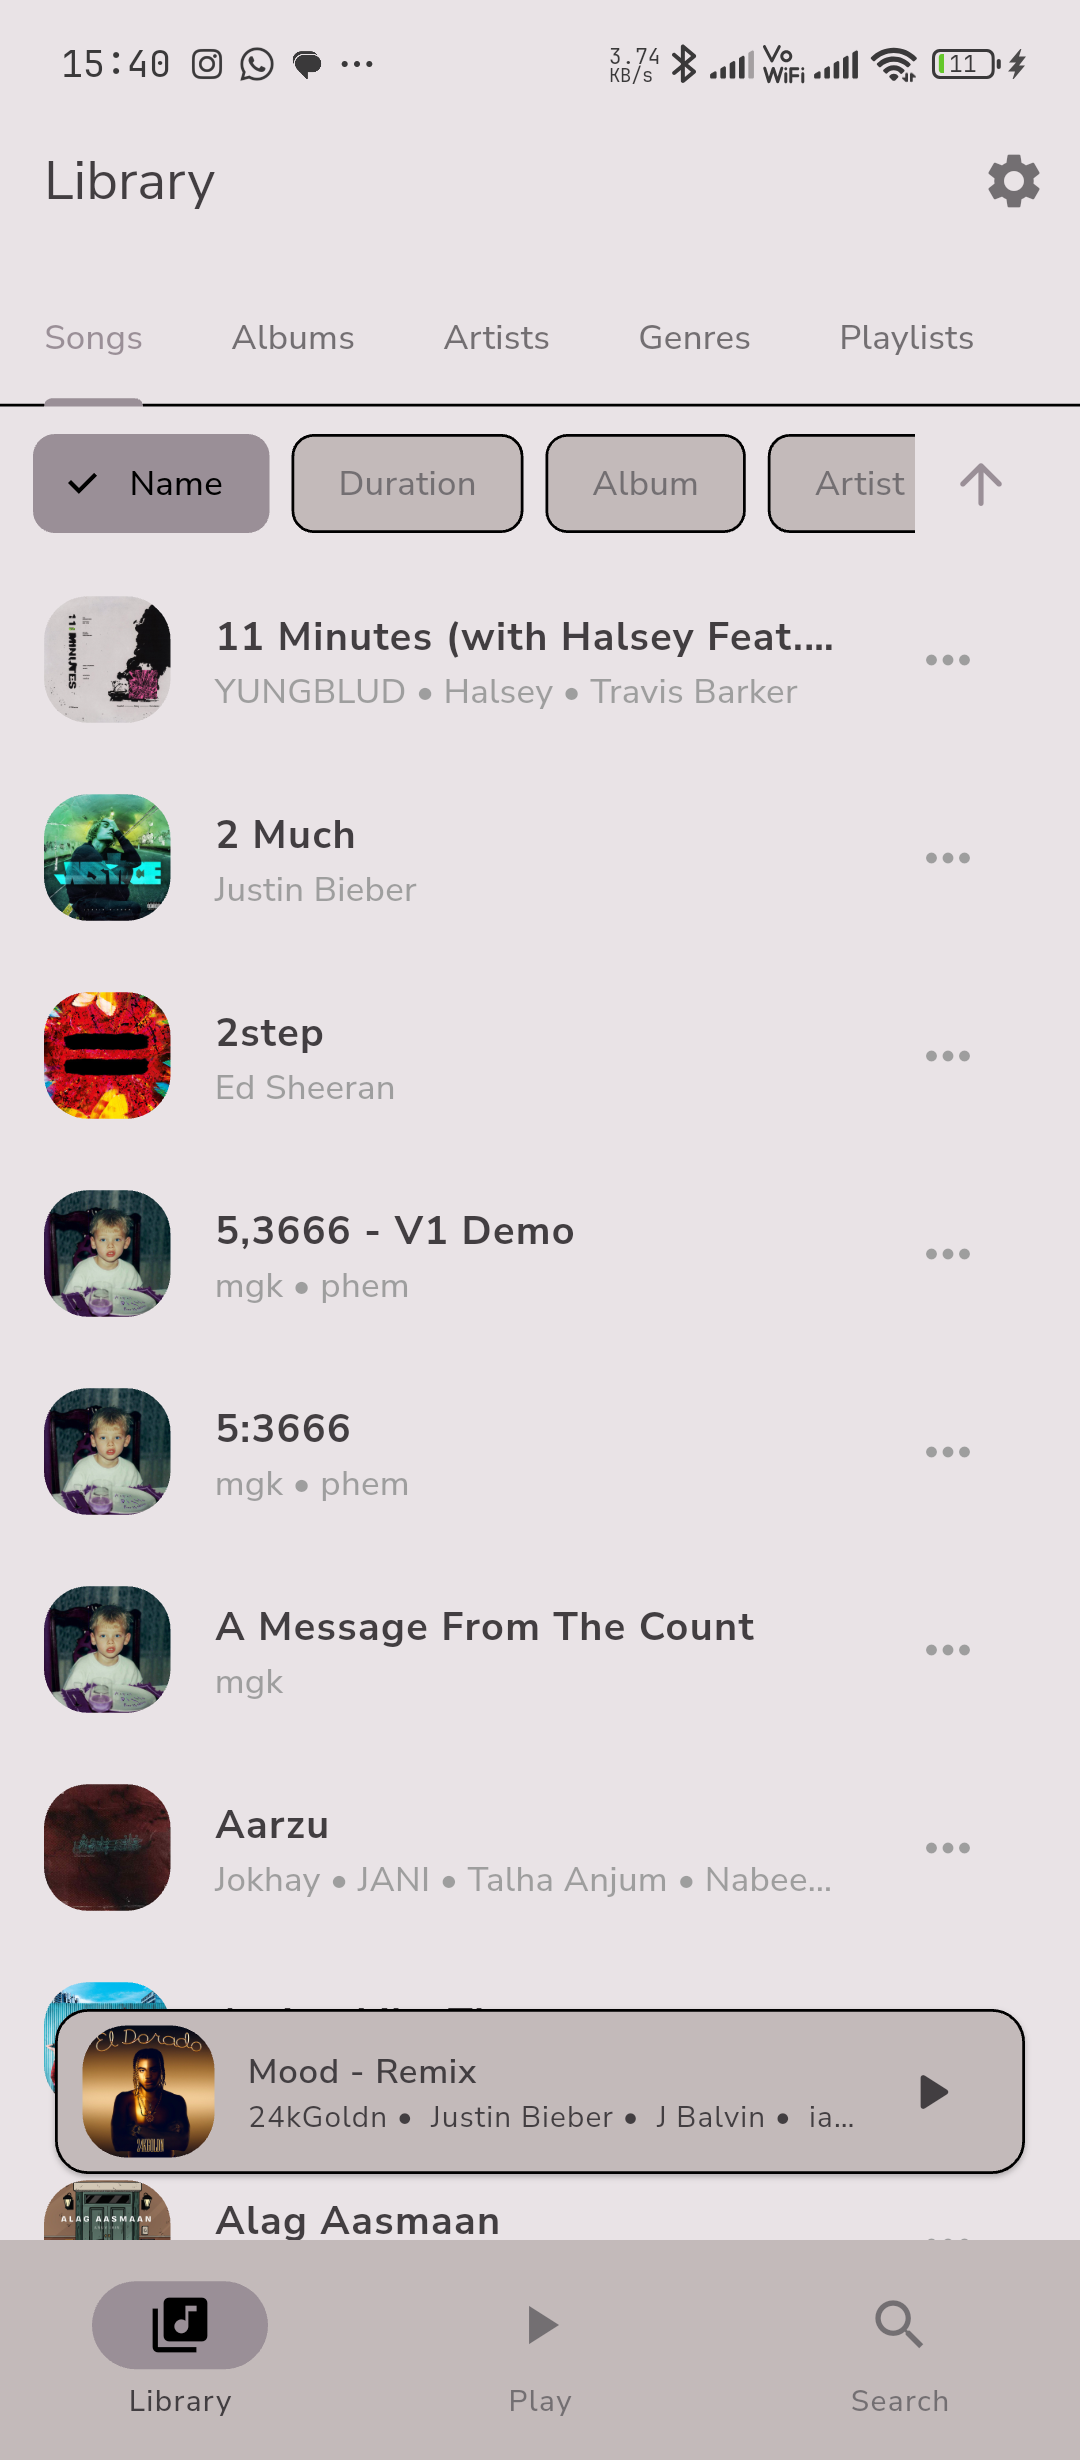
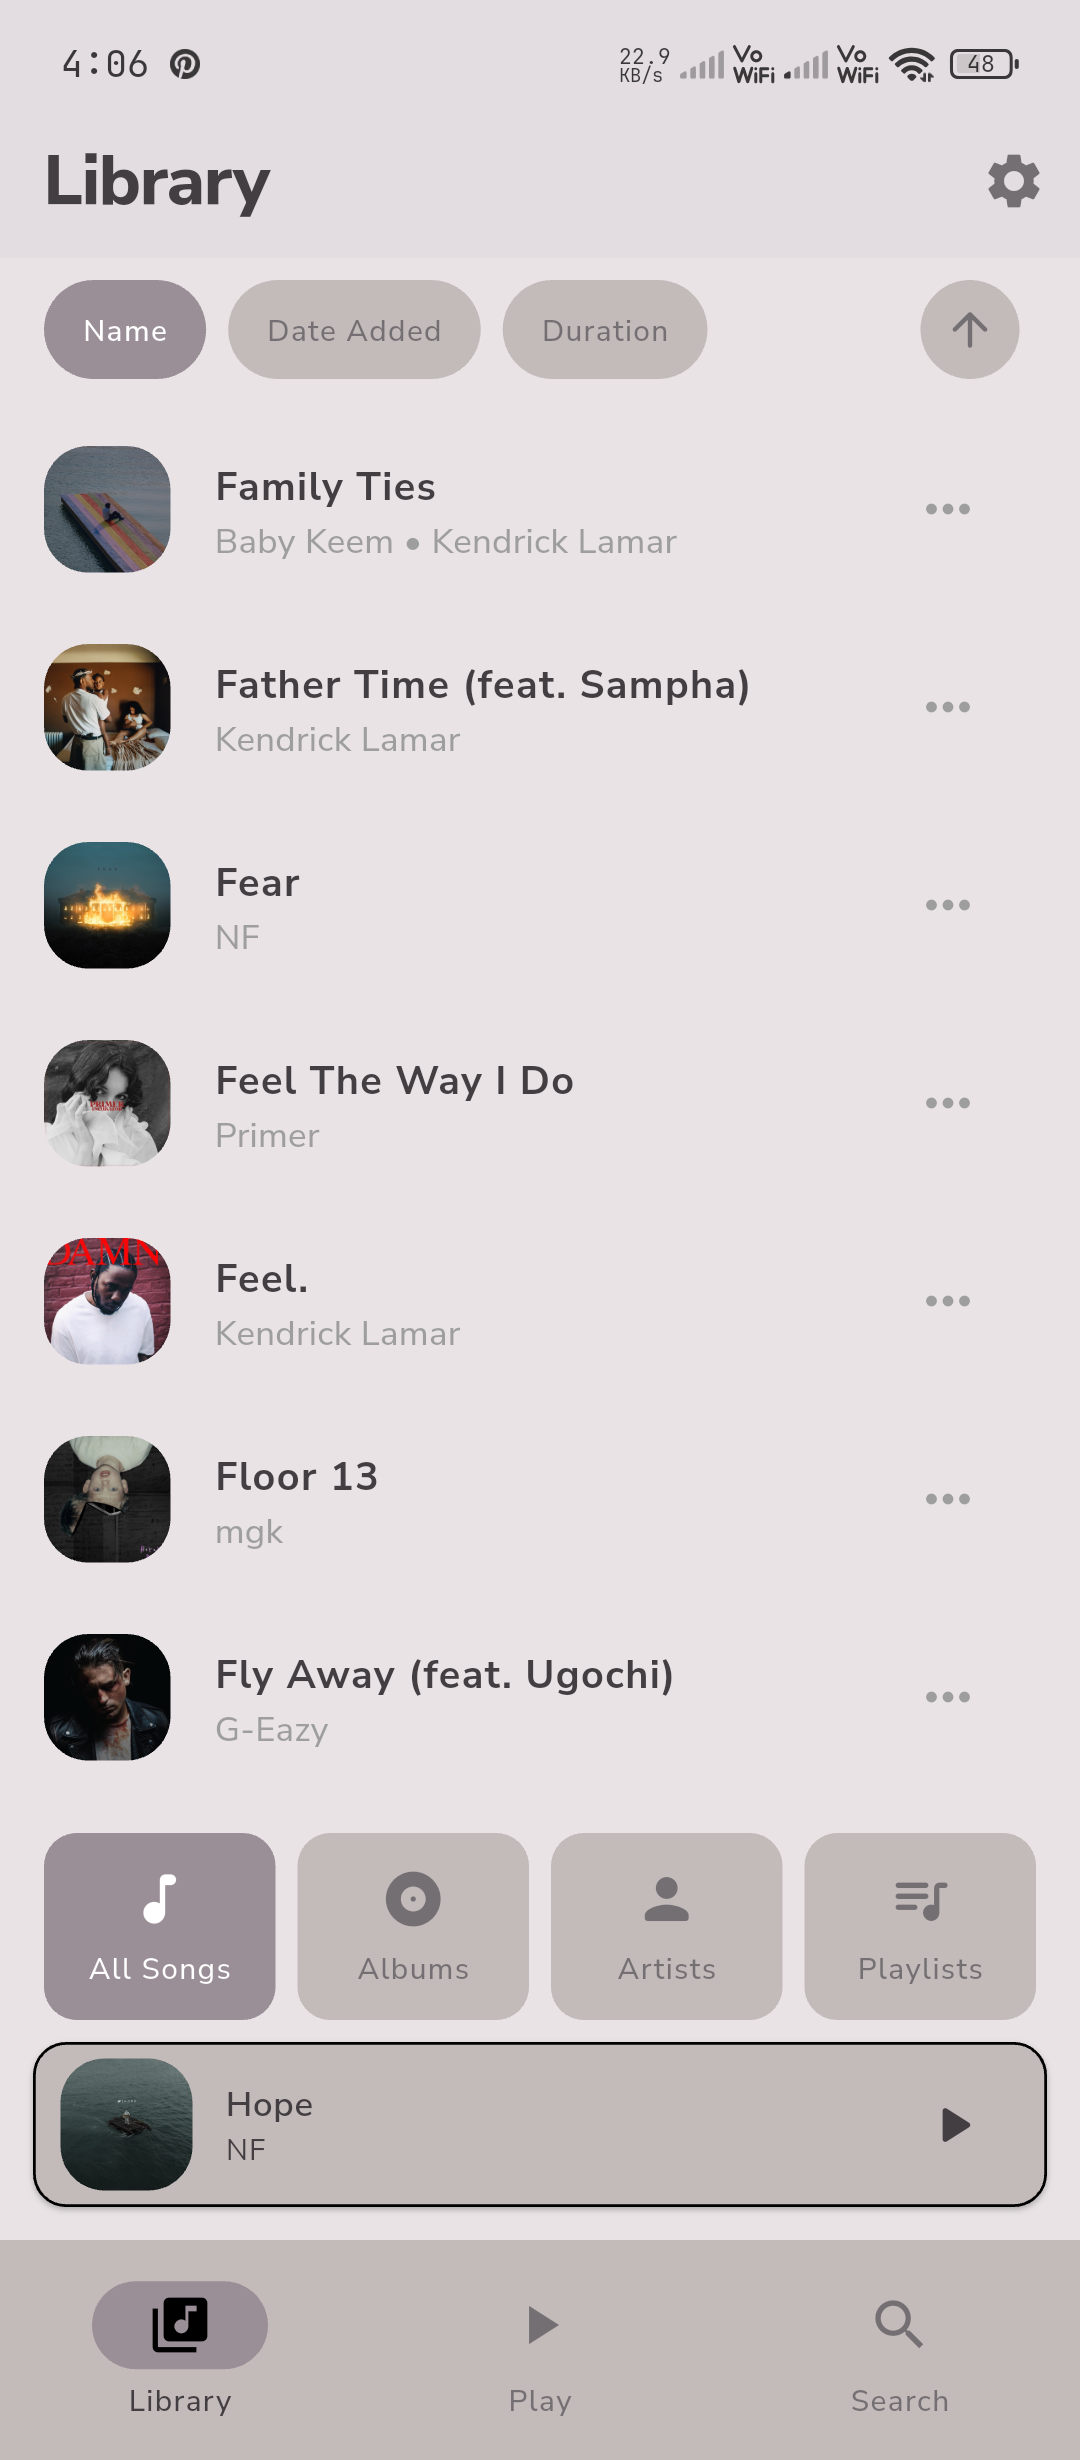
updated REDME.md

diff --git a/README.md b/README.md
@@ -4,17 +4,26 @@
 
 **Your music. Offline. Always.**
 
-An offline music player for Android built with Flutter.
-Tunely scans your device library and lets you browse, play, and vibe — no internet required.
+A beautiful, free music player for Android that plays the songs already on
+your device — no internet, no accounts, no subscriptions. Open it and your
+whole library is right there.
 
-[![Flutter](https://img.shields.io/badge/Flutter-3.x-02569B?style=for-the-badge&logo=flutter&logoColor=white)](https://flutter.dev)
-[![Dart](https://img.shields.io/badge/Dart-3.x-0175C2?style-for-the-badge&logo=dart&logoColor=white)](https://dart.dev)
-[![Android](https://img.shields.io/badge/Android-API%2021+-3DDC84?style=for-the-badge&logo=android&logoColor=white)](https://developer.android.com)
+[![Android](https://img.shields.io/badge/Platform-Android-3DDC84?style=for-the-badge&logo=android&logoColor=white)](https://developer.android.com)
 [![License](https://img.shields.io/badge/License-MIT-purple?style=for-the-badge)](LICENSE)
+[![Release](https://img.shields.io/badge/Release-Closed%20Beta-orange?style=for-the-badge)]()
 
-> 🚀 **v1.0.0** — currently in closed beta. Play Store release coming soon.
+> 🚀 **Currently in closed beta.** Public release on the Play Store coming soon.
 
 </div>
+
+---
+
+## ✨ Why Tunely
+
+- **Plays your own music** — reads what's already on your phone. No streaming, no sign-ups.
+- **Fully offline** — every feature works without a connection.
+- **Personal by design** — light and dark themes, and album art that drives the whole look.
+- **Lyrics that follow along** — Get lyrics easily; synced lyrics scroll in time with the song, automatically.
 
 ---
 
@@ -34,202 +43,87 @@ Tunely scans your device library and lets you browse, play, and vibe — no inte
 
 ---
 
-## ✨ Features
+## 🎶 Features
 
-### 🏠 Home
-- Greeting message with time-aware random texts
-- **Continue listening** — resume your last played track
-- **Top songs** — card-based page viewer of most played tracks
-- **Daily mix** — 15 shuffled songs, first 5 shown as a vertical list
-- **Recommended albums** — horizontal carousel
+### Pick up where you left off
 
-### 📚 Library
-- Browse by **Songs**, **Albums**, **Artists**, **Genres**, and **Playlists**
-- Filter chips (All / Music / Podcasts) on songs tab
-- Sortable song lists (title, artist, album, duration, date added)
-- Albums shown in a 2-column grid
-- Artists with Deezer-fetched profile images
-- Songs grouped by album on artist detail pages (sticky headers)
+- **Continue listening** — jump straight back into your last played track.
+- **Top songs & daily mix** — revisit your most played tracks or shuffle a fresh mix.
+- **Recommended albums** — a carousel to browse and rediscover your library.
 
-### 🔍 Search
-- Real-time search with debounce across your entire library
-- Filter chips — All / Songs / Albums / Artists
-- Recently searched items persisted across sessions
+### 📚 Your library, organized
 
-### 🎵 Player
-- Full playback controls — play, pause, next, prev, seek
-- **Shuffle and repeat** modes (none, repeat all, repeat one)
-- Animated album art with scale transition on play/pause
-- Gradient background extracted from album art
-- **Queue management** with drag-to-reorder and swipe-to-remove
-- Sleep timer with countdown (5m / 15m / 30m / 1h / 2h)
+- Browse by Songs, Albums, Artists, and more.
+- Sort by title, artist, album, duration, or date added.
+- Tap an artist to see their catalog grouped by album, with fetched artist photos and album covers.
 
-### 📖 Lyrics
-- **Synced and unsynced** lyrics via [lrclib](https://lrclib.net) API
-- Lyrics scroll **in sync** with song playback
-- Manual lyrics search if auto-fetch doesn't match
-- Import `.lrc` files from device storage
-- Edit synced line timing or plain lyrics directly
-- Lyrics cached locally with Hive for offline reuse
-- Per-song in-session memory cache
+### 🔍 Find anything instantly
 
-### 🎨 Theming
-- Light / Dark / System theme modes
-- **Dynamic color** — extract accent from current album art
-- Custom accent color picker
-- Inter, Manrope, and NunitoSans fonts
+- Search your entire library as you type, filtered by songs, albums, or artists.
+- Recent searches are remembered.
 
-### 📊 Play Stats
-- Play count tracking for every song
-- Recently played (last 10)
-- Most played (top 50)
-- Like/unlike songs
+### 🎵 A player that feels right
 
-### 📋 Playlists
-- Create, rename, and delete playlists
-- Add songs via multi-select song picker
-- Remove songs from playlists
-- Auto-sort by title, artist, date added, duration, or shuffle
+- Play, pause, skip, and seek with ease.
+- Shuffle and repeat modes for every mood.
+- Player colors adapt to the album art you're listening to.
+- Drag to reorder the queue, or swipe a song away.
+- **Sleep timer** — from 5 minutes to 2 hours.
 
-### ⚙ Other
-- Background audio with **lock screen controls**
-- Sleep timer with background-aware countdown
-- Session persistence — queue, position, shuffle, repeat, speed restored on relaunch
-- Artist delimiter configuration (tune how joint artists are parsed)
-- Minimum song duration filter
-- Settings persist across app restarts via shared_preferences
+### 📖 Sing along
 
----
+- Synced lyrics scroll in time with the music; plain lyrics as a fallback.
+- Search for lyrics manually or import your own `.lrc` files.
+- Lyrics are cached, so they're available offline next time.
 
-## 🛠 Tech Stack
+### 🎨 Make it yours
 
-| Category | Technology |
-|----------|------------|
-| Framework | Flutter (Dart 3.x) |
-| State Management | BLoC / Cubit (flutter_bloc 9.x) |
-| Audio Playback | just_audio |
-| Background Audio | audio_service |
-| Media Scanning | on_audio_query_pluse |
-| Lyrics | lrclib.net API |
-| Artist Images | Deezer API |
-| Local Storage | Hive CE (lyrics, stats, management settings) |
-| Settings Persistence | shared_preferences |
-| Color Extraction | palette_generator |
-| Image Caching | cached_network_image + flutter_cache_manager |
+- Light, dark, or system theme.
+- Dynamic colors pulled from album art.
 
----
+### ⚙ The little things
 
-## 🏗 Architecture
-
-Tunely follows a **feature-first layered architecture** with clean separation between services, state, and UI.
-
-```
-lib/
-├── core/
-│   ├── config/           # App theme, route params
-│   ├── const/            # Route names, app constants, router
-│   ├── extensions/       # String extensions
-│   └── utils/            # Parsers, formatters, sort helpers
-├── shared/
-│   ├── model/            # Tune, Artist
-│   ├── service/          # ArtistService (Deezer image fetch)
-│   └── widget/           # AlbumArt, SongTile, AlbumCard, etc.
-├── features/
-│   ├── customization/    # Theme mode, dynamic color extraction
-│   ├── library/          # Library browser (5 tabs)
-│   ├── lyrics/           # Lyrics cubit, synced + unsynced views
-│   ├── music_management/ # Scan settings (delimiters, min duration)
-│   ├── playback/         # Playback BLoC + service (just_audio)
-│   ├── playlist/         # Playlist CRUD
-│   ├── root/             # Root navigation shell + Home view
-│   ├── search/           # Search cubit, filter chips
-│   ├── session/          # Queue/position persistence
-│   ├── settings/         # Settings screen
-│   ├── sleep_mode/       # Sleep timer cubit
-│   ├── splash/           # Splash/init screen
-│   └── stats/            # Play stats, likes
-└── ui/
-    └── shell/            # Legacy root view
-```
-
-### 💡 Key Design Decisions
-
-- **Feature-first** — each feature owns its cubit/bloc, view, and widgets
-- `PlaybackService` owns the audio queue — BLoC only listens via streams
-- `effectiveSequence` used for correct shuffle order in just_audio
-- `Tune` is the single UI model — decoupled from Android's `SongModel`
-- Mini player via `OverlayEntry` + `NavigatorObserver` — persists above all routes
-- `PageView` preserves tab state across navigation switches
-- Dynamic color extracts palette from album art, falls back to user accent
-- Hive CE for structured persistence (lyrics cache, stats, management settings)
-- Session cache for lyrics avoids redundant Hive reads during playback
-
-### 🔄 Data Flow
-
-```
-SplashView
-  └── LibraryService.loadAll()
-        └── SessionCubit.restore()
-              └── PlaybackBloc.restoreSession()
-                    └── Navigate to RootScreen (PageView)
-
-User taps song
-  └── PlayQueueEvent(index, tunes) → PlaybackBloc
-        └── PlaybackService.playQueue() → just_audio
-              └── sequenceStateStream → state update
-
-Song changes
-  └── StatsService.onTrackChanged → Hive (play count)
-  └── LyricsCubit.fetch(tune)
-        └── LyricsRepository checks Hive cache → miss → lrclib API → cache
-```
+- Background playback with lock screen controls — music keeps going with the screen off.
+- Your queue, position, and settings are remembered when you reopen the app.
+- Set a minimum song length to filter out clips, and tweak how artist names are read.
 
 ---
 
 ## 🚀 Getting Started
+> You'll be asked for storage permission the first time the library is scanned.
 
-### Prerequisites
+### 📱 For users
 
-- Flutter SDK 3.x+
-- Android device or emulator (API 21+)
-- Storage permission (requested during library scanning)
+Tunely is currently in **closed beta**, with a public Play Store release on
+the way.
 
-### Run
+Find the latest release on the [Releases page](https://github.com/abhijeetsagr-g/tunely/releases/latest).
+### 🛠 For developers
 
 ```bash
+git clone https://github.com/abhijeetsagr-g/tunely
+cd tunely
 flutter pub get
 flutter run
 ```
 
-### Release Build
-
-```bash
-flutter build apk --release
-```
 
 ---
 
-## 🗺 Roadmap
+<summary><b>🛠 How it's built</b></summary>
 
-| Phase | Description | Status |
-|-------|-------------|--------|
-| 1 | Core Playback Service | ✅ Complete |
-| 2 | Library Scanning & Browser | ✅ Complete |
-| 3 | BLoC State Management | ✅ Complete |
-| 4 | Home, Search, Lyrics, Theming | ✅ Complete |
-| 5 | Player, Queue, Mini Player | ✅ Complete |
-| 6 | Settings, Stats, Sleep Timer | ✅ Complete |
-| 7 | Playlists | ✅ Complete |
-| 8 | Onboarding Flow | 🔨 In Progress |
-| 9 | Play Store Release | ⬜ Planned |
+Built with **Flutter** and **Dart**, using a feature-first architecture:
 
----
-
-## 🤝 Contributing
-
-Pull requests are welcome! For major changes, open an issue first to discuss what you'd like to change.
-
----
+| Category | Technology |
+| ---------- | ------------ |
+| Framework | Flutter (Dart 3.x) |
+| State Management | BLoC / Cubit (flutter_bloc) |
+| Audio Playback | just_audio + audio_service |
+| Media Scanning | on_audio_query_pluse |
+| Lyrics | lrclib.net API |
+| Artist Images | Deezer API |
+| Local Storage | Hive CE + shared_preferences |
+| Color Extraction | palette_generator |
 
 <div align="center">
 
